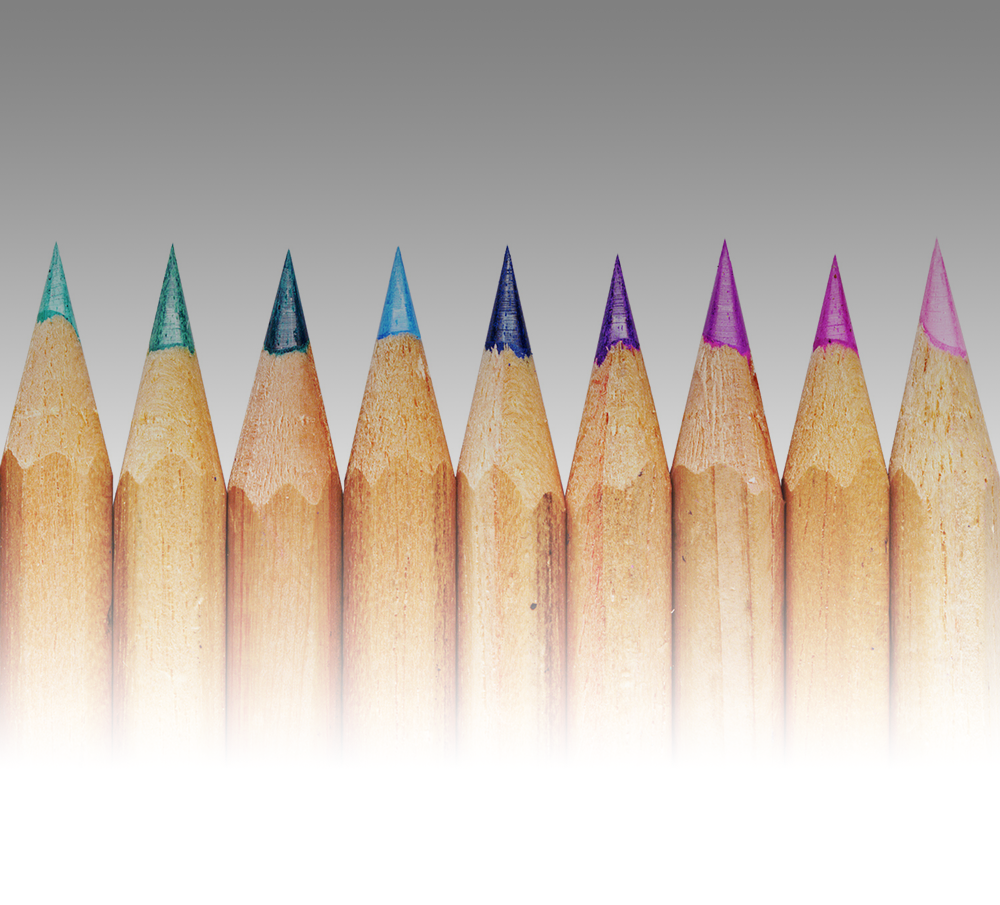
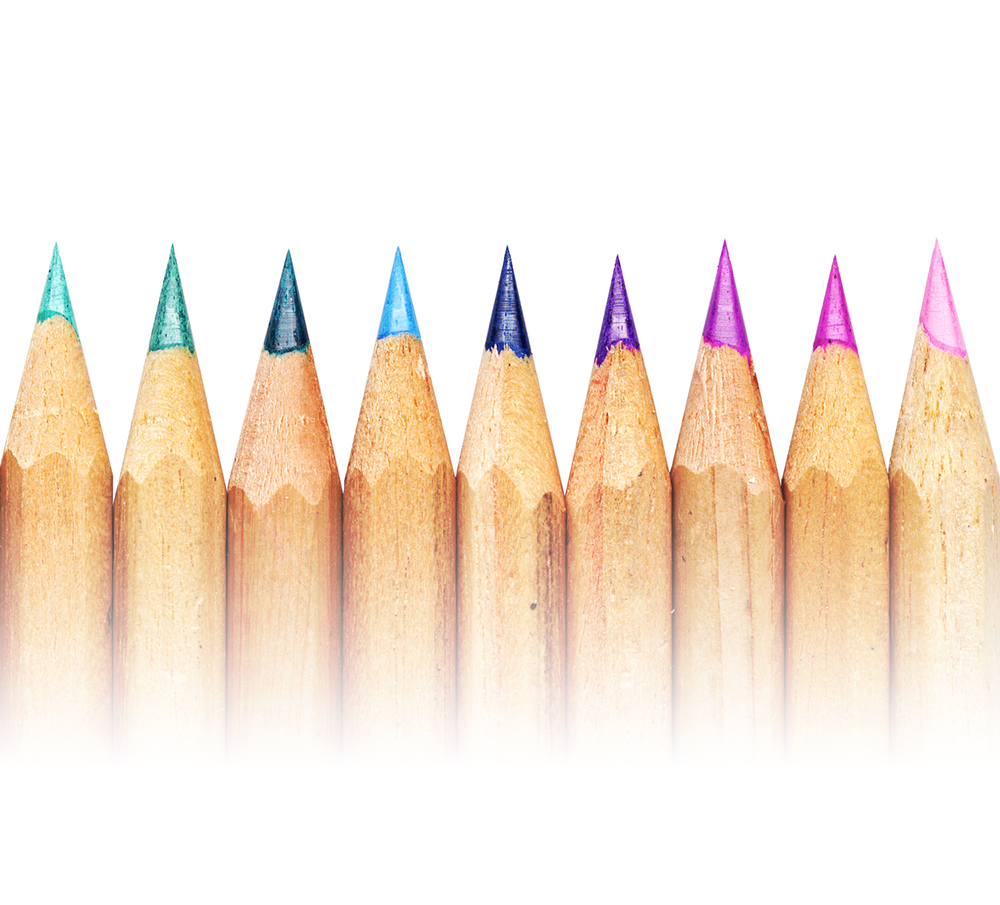
small changes to the better on index

diff --git a/foobar/src/main/resources/templates/index.html b/foobar/src/main/resources/templates/index.html
@@ -20,16 +20,16 @@
 	<div id="main">
 		<div id="header_wrapper" th:replace="fragments/header :: header"></div>
 
-		<div class="container" style="border:none;">
+		<div class="container" style="border: none;">
 
 			<div id="create_new_account_index">
 
-				<section style=" height: 100%; width:1000px; margin:0px auto;">
+				<section style="height: 38%; width: 1000px; margin: 0px auto;  background-color: rgba(255, 255, 255, 0.66);">
 
 					<div id="index_desc" style="float: left; width: 45%; padding-left: 5%;">
 						<h1>Create a new account on JRMDS</h1>
-						<h2>JRMDS is a tool that allows for....(insert short description here)</h2>
-						<h3>Some stock image in the background always looks pretty awesome.</h3>
+						<h2>JRMDS is a tool that allows for...(insert short description here.)</h2>
+						<h3>A random stock image in the background always does the magic.</h3>
 					</div>
 
 
@@ -38,10 +38,9 @@
 
 							<input class="text_input" placeholder="Username" /> <input class="text_input" placeholder="Password" /> <input class="text_input"
 								placeholder="Repeat Password" /> <input class="text_input" placeholder="Email Adress" />
-							<div>
-								<input type="submit" value="Create new Account" class="createButton" /> <a th:href="@{/}"
-									class="cancelButton">Sign in</a>
-							</div>
+							<section style="margin-top:25px;">
+								<input type="submit" value="Create new Account" class="createButton" /> <a th:href="@{/}" class="cancelButton">Sign in</a>
+							</section>
 
 						</form>
 					</div>

diff --git a/foobar/src/main/resources/static/style/index.css b/foobar/src/main/resources/static/style/index.css
@@ -6,9 +6,11 @@
 
 h1 {
 	font-size:48px;
+	margin-bottom:20px;
 }
 h1,h2,h3,h4 {
-	color:white;
+	color:#343434;
+	text-shadow: 1px 1px rgba(255,255,255,0.25);
 }
 p {
 	padding:10px 0 0 10px;

diff --git a/foobar/src/main/java/jrmds/controller/SearchController.java b/foobar/src/main/java/jrmds/controller/SearchController.java
@@ -1,10 +1,9 @@
 package jrmds.controller;
 
-import java.util.ArrayList;
-import java.util.List;
+import java.util.HashSet;
+import java.util.Set;
 
 import jrmds.main.JrmdsManagement;
-import jrmds.main.RuleRepository;
 import jrmds.model.Component;
 import jrmds.user.UserManagement;
 
@@ -21,19 +20,17 @@ public class SearchController {
 	private JrmdsManagement controller;
 	@Autowired
 	private UserManagement usr;
-	@Autowired
-	public RuleRepository ruleRepository;
 
-	List<Component> autocompleteList;
+	Set<Component> autocompleteList;
 
 	@RequestMapping(value = "/getAutoCompleteSuggestions", method = RequestMethod.GET)
-	public @ResponseBody List<Component> getAutoCompleteSuggestions(
+	public @ResponseBody Set<Component> getAutoCompleteSuggestions(
 			@RequestParam String tagName) {
-		autocompleteList = new ArrayList<Component>();
-		for (Component person : controller.getAllComponents()) {
-			if (person.getRefID().toLowerCase().contains(tagName))
+		autocompleteList = new HashSet<Component>();
+		for (Component component : controller.getAllComponents()) {
+			if (component.getRefID().toLowerCase().contains(tagName))
 
-				autocompleteList.add(person);
+				autocompleteList.add(component);
 		}
 
 		return autocompleteList;
